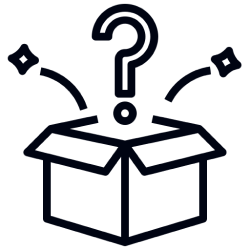
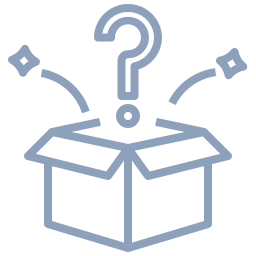
styles to general pages and surprise component

Changed region(s): [[0.028, 0.168, 0.924, 1.0], [0.364, 0.0, 0.644, 0.504], [0.644, 0.168, 0.98, 0.42]]

diff --git a/cinemalomano-typescript/src/Components/Card/Card.tsx b/cinemalomano-typescript/src/Components/Card/Card.tsx
@@ -2,7 +2,7 @@ import React, { useState, useEffect } from "react";
 import { makeRequestGetMovieId } from "../../lib/request";
 import { Description } from "../../types";
 import "./style.css";
-import { Link, useParams } from "react-router-dom";
+import { Link, useLocation, useParams } from "react-router-dom";
 
 interface Props {
   movies: Array<Description>;
@@ -19,6 +19,9 @@ export const Card = ({ movies }: Props) => {
     movieDetailState["movieDetail"]
   >([]);
 
+ const location = useLocation()
+console.log(location);
+
   useEffect(() => {
     if (movies) {
       movies.map((movie) =>
@@ -30,7 +33,7 @@ export const Card = ({ movies }: Props) => {
   return (
     <main className="card">
       {movies ? (
-        <div className="card--movies">
+        <div className={(location.pathname === 'random-surprise') ? "card--movies_random" : 'card--movies'}>
           {movies.map((movie, i) => (
             <div className="card--movie" key={i}>
               <>
@@ -57,18 +60,28 @@ export const Card = ({ movies }: Props) => {
                 {movieDetail.map(
                   (res) =>
                     res.imdbID === movie.imdbID && (
-                      <section
-                        className="card--movie_face --back "
-                        style={{ display: "grid" }}
-                      >
-                        <p style={{ fontWeight: "500" }}>
-                          <Link to={`/home/${res.imdbID}`}>
+                      // <>
+                      // {
+                          <Link to={`/home/${res.imdbID}`} className='card--movie-link'>
+                          <section
+                            className="card--movie_face--back "
+                            style={{ display: "grid" }}
+                          >
+                            <p style={{ fontWeight: "500" }}>
                             {res.Title.toUpperCase()}
-                          </Link>
-                        </p>
-                        <p>{res.Plot}</p>
-                        <p>{res.Genre}</p>
-                      </section>
+                              {/* <Link to={`/home/${res.imdbID}`}>
+                                {res.Title.toUpperCase()}
+                              </Link> */}
+                            </p>
+                            <p>{res.Plot}</p>
+                            <p>{res.Genre}</p>
+                          </section>
+
+                        </Link>
+                         
+                      // }
+                      // </>
+                    
                     )
                 )}
               </>

diff --git a/cinemalomano-typescript/src/Components/Card/style.css b/cinemalomano-typescript/src/Components/Card/style.css
@@ -1,25 +1,20 @@
 main.card {
-  background: #285459;
+  background: #080f28;
   border: none;
 }
 
 .card--movies {
   display: grid;
   grid-template-columns: repeat(3, 1fr);
-  margin-top: 5em;
-  /* display: flex;
-    flex-wrap: wrap;
-    justify-content: center;
-    align-items: center;
-    gap: 20px; */
-}
-
-.card--movies {
+  margin-top: 3em;
+  grid-gap: 50px;
   position: relative;
   width: 100%;
   height: 101em;
-  margin: 20px;
-  flex-wrap: wrap;
+}
+
+.card--movies_random{
+  grid-template-columns: repeat(1, 1fr);
 }
 
 .card--movie {
@@ -36,6 +31,7 @@ main.card {
   border-radius: 10px;
   overflow: hidden;
   transition: 0.5s;
+
 }
 .--front {
   box-shadow: 0 5px 10px rgb(56, 55, 92);
@@ -50,37 +46,21 @@ main.card {
   object-fit: cover;
 }
 
-.--back {
-  background: rgb(31 33 34 / 90%);
-  width: 30%;
-  height: 30%;
-  color: white;
-  display: none;
-  flex-direction: column;
-  justify-content: space-between;
-  box-shadow: 0 5px 10px rgb(56, 55, 92);
+.card--movie_face--back {
+    background: rgb(31 33 34 / 95%);
+    color: white;
+    display: none;
+    flex-direction: column;
+    justify-content: space-between;
+    box-shadow: 0 5px 10px rgb(56 55 92);
     align-content: space-around;
     text-align: start;
     padding: 15px;
     letter-spacing: 1px;
-    /* animation:  2s back 0.5s ease-in-out ; */
-}
-
-/* @keyframes back {
-  0%{
-      transform: translateY(-200px);
+    position: relative;
   }
-  100%{
-      transform: translateY(0px);
-  }
-} */
-
-/* .--back_title{
-  font-weight: 500;
-} */
 
 .year{
-    /* width: 4em; */
     height: 1.5em;
     display: flex;
     bottom: 3%;
@@ -94,5 +74,13 @@ main.card {
 .year p {
     color: white;
     margin: 0;
+}
+
+.card--movie-link{
+    width: 100%;
+    height: 75%;
+    display: flex;
+    border-radius: 10px;
+    text-decoration-line: none;
 }
 

diff --git a/cinemalomano-typescript/src/Components/Header/style.css b/cinemalomano-typescript/src/Components/Header/style.css
@@ -10,7 +10,7 @@
 }
 
 .form-control{
-    color: white !important;
+    color: #8da0bc !important;
     letter-spacing: 1pt;
 }
 
@@ -41,7 +41,7 @@
     .form-control  {
         width: 70% !important;
         background-color: transparent !important;
-        border: 1px solid white !important;
+        border: 1px solid #8da0bc !important;
         border-radius: 2em !important;
     }
 
@@ -70,7 +70,8 @@
 
     nav.mb-3.navbar.navbar-expand-sm.navbar-light{
         margin-bottom: 0rem !important;
-        background: #708C87;
+        background: #080f28;
+        /* background: #708C87; */
     }
    
 
@@ -94,7 +95,7 @@
     }  
     .form-control  {
         background-color: transparent !important;
-        border: 1px solid white !important;
+        border: 1px solid #8da0bc !important;
         border-radius: 2em !important;
         margin-top: 5px;
     }
@@ -107,7 +108,15 @@
 
     .navbar-expand-sm .navbar-nav {
         font-size: 20px;
-        color: white;
+        color: #8da0bc;
+    }
+
+    .navbar-expand-sm .navbar-nav .nav-link{
+        color: #8da0bc;
+    }
+
+    .offcanvas-end a{
+        text-decoration: none;
     }
 
   

diff --git a/cinemalomano-typescript/src/Components/Surprise/Surprise.tsx b/cinemalomano-typescript/src/Components/Surprise/Surprise.tsx
@@ -5,6 +5,8 @@ import { Description } from "../../types";
 import { Card } from "../Card/Card";
 import surprise from "../../resources/random.png";
 import click from "../../resources/click.png";
+import home from "../../resources/home-modal.png";
+import { Link } from "react-router-dom";
 
 export const Surprise = () => {
   interface Films {
@@ -23,9 +25,14 @@ export const Surprise = () => {
 
   return (
     <main className="surprise--container">
+         <Link to='/'>
+              <img src={home} alt="home" className="home--surprise" />
+        </Link>
+    {/* <img src={home} alt="" className="home--surprise" /> */}
     <section className="surprise--container_section">
         <article className="surprise--container_box">
-            <img src={surprise} alt="" className="surprise--box" />
+              <img src={surprise} alt="" className="surprise--box" />
+            
             <img
                 src={click}
                 className='surprise--click'

diff --git a/cinemalomano-typescript/src/Components/Surprise/style.css b/cinemalomano-typescript/src/Components/Surprise/style.css
@@ -14,7 +14,11 @@
 
 .surprise--container_box{
     display: flex;
+    width: auto;
+    height: auto;
     position: absolute;
+    top: 50%;
+    left: 35%;
     z-index: 999;
     justify-content: center;
     align-items: center;
@@ -24,4 +28,11 @@
     justify-content: center;
     align-items: center;
     position: absolute;
+ }
+
+ .home--surprise{
+    position: absolute;
+    z-index: 1;
+    top: 2%;
+    left: 2%;
  }

diff --git a/cinemalomano-typescript/src/Pages/Home/style.css b/cinemalomano-typescript/src/Pages/Home/style.css
@@ -1,5 +1,6 @@
 .homePage--container{
-    background: #285459;
+    background: #080f28;
+    
     padding: 20px;
     height: 100%;
     max-height: 350vh;
@@ -10,7 +11,7 @@
     display: flex;
     justify-content: center;
     text-align: center;
-    color: white;
+    color: #8da0bc;
     text-shadow: 1px 5px #0000006e;
-    margin-bottom: 1em;
+    margin-top: 1em;
 }

diff --git a/cinemalomano-typescript/src/Pages/Surprise/style.css b/cinemalomano-typescript/src/Pages/Surprise/style.css
@@ -6,7 +6,8 @@
     align-items: center;
     width: 90%;
     flex-direction: column;
-    color: white;
+    color: #8da0bc;
     text-shadow: 1px 5px #0000006e;
     gap: 5em;
+    margin-top: 5em;
 }
